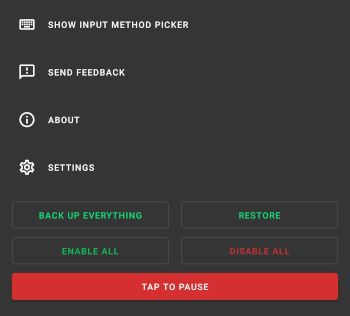
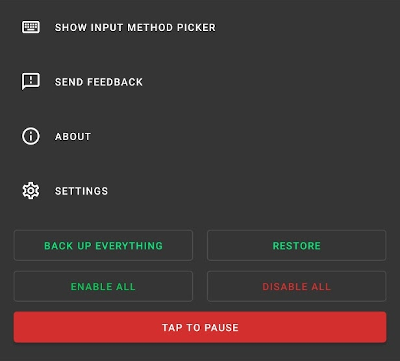
website: new consistent screenshots and started 'Constraints and more' section

diff --git a/docs/quick-start.md b/docs/quick-start.md
@@ -6,7 +6,7 @@ Where screenshots are necessary, this guide uses two devices to demonstrate.
 1. OnePlus 7 Pro, Android 10, Dark theme, 1440p, tiny font size
 2. Samsung J3 6, Android 5, Light theme, 720p, medium font size
 
-App interface pictured: `keymapper-2.3.0-alpha-ci.715`
+App interface pictured: `keymapper-2.3.0-alpha-ci.778`
 
 This guide is updated to match current stable release UI. [Report inaccuracies.](https://github.com/sds100/KeyMapper/issues/new)
 
@@ -21,7 +21,7 @@ Tapping the FIX button next to the accessibility service prompt will allow you t
 
 ![](images/hg-warn-service.png)
 
-You can then tap Key Mapper in your list of available services. There may be many others on this screen and your interface may be slightly different. If nothing happens when you tap FIX, or if you can't enable the service, see [this page](#) or ask for help in the [Discord server](http://keymapper.club).
+You can then tap Key Mapper in your list of available services. There may be many others on this screen and your interface may be slightly different. If nothing happens when you tap FIX, or if you can't enable the service, see [this page](#) or ask for help in the [Discord server.](http://keymapper.club)
 
 ![](images/hg-settings-services.png) ![](images/hg-settings-services-light.png)
 
@@ -31,7 +31,7 @@ Tapping the FIX button next to the input method prompt will allow you to enable 
 
 If you have only installed the Key Mapper app, your list of available keyboards will contain "Key Mapper Basic Input Method" only. If you aim to use a physical keyboard (not on-screen) when using Key Mapper, this will be suitable for you.
 
-If you want an on-screen keyboard to be available while using Key Mapper, you need to install "Key Mapper GUI Keyboard". It is available on the [Google Play Store](http://gui.keymapper.club), [F-Droid](https://www.f-droid.org/en/packages/io.github.sds100.keymapper.inputmethod.latin/) and [GitHub](https://github.com/sds100/KeyMapperKeyboard/releases).
+If you want an on-screen keyboard to be available while using Key Mapper, you need to install "Key Mapper GUI Keyboard". It is available on the [Google Play Store](http://gui.keymapper.club), [F-Droid](https://www.f-droid.org/en/packages/io.github.sds100.keymapper.inputmethod.latin/) and [GitHub.](https://github.com/sds100/KeyMapperKeyboard/releases)
 
 ![](images/hg-settings-input-method.png) ![](images/hg-settings-input-method-light.png)
 
@@ -79,6 +79,8 @@ In either case, the first step is to record a trigger. Tap the red RECORD TRIGGE
 
 Key Mapper can also create a key map with multiple triggers. If you want to use more than one trigger for one key map, you can press the buttons in the order you will press them to execute the key map. For example, if you wanted to map 'Ctrl' + 'H' to show the device home menu, you should press 'Ctrl' and then 'H'.
 
+Key Mapper can also remap fingerprint gestures on many devices. You can learn how to do this [here.](#)
+
 ![](images/hg-keymap-1.png) ![](images/hg-keymap-1-light.png)
 
 ### Setting the action(s)
@@ -111,7 +113,7 @@ Key Mapper can also create a key map with multiple actions. If you want to add m
 
 ## Customising a key map
 
-In the next section, I will explain in more detail how to customise your triggers and actions to be more in line with what you want. Most people will want to do at least some customisation.
+You may wish to customise your triggers and actions to have specific behaviours. Most people will want to do at least some customisation.
 
 ### Trigger settings
 
@@ -139,6 +141,7 @@ When this is turned on, the following notice will come up at the bottom of the s
 
 ![](images/ui-toast.png)
 
+You can have your device vibrate instead of an on-screen message if you want. The setting [is found here.](#)
 ___
 
 The following details refer to action timing settings.
@@ -217,6 +220,27 @@ You can use turn on both of these settings to unlock an additional setting. A re
 
 This allows you to set how long the action is held down for before repeating.
 
+## Special options
+
+For extra key map customisation, tap the 'Constraints and more' tab at the top of the screen when editing or creating a key map.
+
+:fontawesome-solid-check-square:{: .accent-light } &nbsp; Trigger by Intent
+
+For information about Trigger by Intent go to [this page.](../user-guide/actions/#intent-230)
+
+___
+
+:fontawesome-solid-check-square:{: .accent-light } &nbsp; Vibrate
+
+&nbsp;Vibrate duration (ms)<br /> 
+![](images/ui-slider-default-light-450px.png)
+
+Tapping 'Vibrate' will cause your device to vibrate whenever your key map is triggered (and therefore behaves similarly to the [toast message](#))
+
+## Constraints
+
+You can add special constraints to your key maps in order to customise when they are allowed to run.
+
 ## Managing key maps
 
 To save your key map and return to the home screen, tap the save :fontawesome-solid-save: icon in the bottom right of the screen.
@@ -230,11 +254,10 @@ On the Key Mapper home screen, tap the 3 bar :fontawesome-solid-bars: menu to op
 ![](images/hg-general-settings.png) ![](images/hg-general-settings-light.png)
 
 Here you can pause/unpause/enable/disable all of your key maps at once.<br />
-You can also backup and restore key maps here. [Learn more about backup and restore.](#)
+You can also back up and restore key maps here. [Learn more about back up and restore.](#)
 
 Tapping 'Show input method picker' allows for switching between a Key Mapper compatible keyboard and any other.<br />
 
-The 'About' menu is explained [here.](#)<br />
-Tapping 'Settings' shows more advanced settings and preferences you can learn about [here.](#)
+Key Mapper can also remap fingerprint gestures on many devices. You can learn how to do this [here.](#)
 
 [Go to top.](#)
